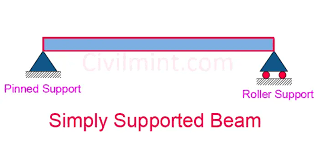
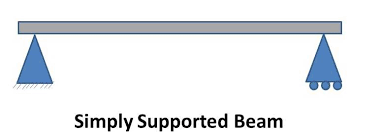
Updated ss_beam image and its path, deleted commented code,changed c_beam jpeg image to png

Changed region(s): [[0.0, 0.1515, 0.9907, 0.697], [0.1548, 0.697, 0.805, 1.0]]

diff --git a/src/osdag/design_type/flexural_member/plot_bmd_sfd.py b/src/osdag/design_type/flexural_member/plot_bmd_sfd.py
@@ -1,0 +1,188 @@
+
+from PyQt5.QtCore import Qt
+from PyQt5.QtWidgets import QApplication
+from PyQt5.QtGui import QKeySequence
+from PyQt5.QtWidgets import QDialog
+
+from PyQt5.QtWidgets import (
+    QWidget, QLabel, QPushButton, QVBoxLayout, QTableWidget, QTableWidgetItem,
+    QHBoxLayout, QFileDialog, QHeaderView, QMessageBox
+)
+import matplotlib.pyplot as plt
+
+
+class PlotInputWidget(QWidget):
+    def __init__(self, plot_type="BM"):  # "BM" or "SF"
+        super().__init__()
+
+        self.plot_type = plot_type
+        self.setWindowTitle(f"{'BMD' if plot_type == 'BM' else 'SFD'} Plotter")
+
+        self.layout = QVBoxLayout(self)
+
+        # Setup Table
+        self.table = QTableWidget(5, 2)
+        self.table.setHorizontalHeaderLabels(["Distance (m)", "BM (kNm)" if plot_type == "BM" else "SF (kN)"])
+        self.table.horizontalHeader().setSectionResizeMode(QHeaderView.Stretch)
+
+        self.layout.addWidget(QLabel(f"Enter Distance and {'Bending Moment' if plot_type == 'BM' else 'Shear Force'} values:"))
+        self.layout.addWidget(self.table)
+
+        # Buttons
+        btn_layout = QHBoxLayout()
+        self.plot_btn = QPushButton(f"Plot {'BMD' if plot_type == 'BM' else 'SFD'}")
+        # self.save_btn = QPushButton("Save as PNG")
+        self.add_row_btn = QPushButton("Add Row")
+        btn_layout.addWidget(self.add_row_btn)
+        btn_layout.addWidget(self.plot_btn)
+        # btn_layout.addWidget(self.save_btn)
+        self.layout.addLayout(btn_layout)
+
+        # Connections
+        self.add_row_btn.clicked.connect(self.add_row)
+        self.plot_btn.clicked.connect(self.plot_graph)
+        # self.save_btn.clicked.connect(self.save_plot)
+
+    def add_row(self):
+        self.table.insertRow(self.table.rowCount())
+
+    def get_data(self):
+        x_vals = []
+        y_vals = []
+
+        for row in range(self.table.rowCount()):
+            try:
+                xi = float(self.table.item(row, 0).text())
+                yi = float(self.table.item(row, 1).text())
+                x_vals.append(xi)
+                y_vals.append(yi)
+            except (ValueError, AttributeError):
+                continue
+
+        if len(x_vals) < 2:
+            QMessageBox.warning(self, "Invalid Input", "Please enter at least two valid data points.")
+            return None, None
+
+        # Sort by distance
+        return zip(*sorted(zip(x_vals, y_vals)))
+
+    def plot_graph(self):
+        x, y = self.get_data()
+        if x is None:
+            return
+
+        color = 'r' if self.plot_type == "BM" else 'b'
+        title = "Bending Moment Diagram" if self.plot_type == "BM" else "Shear Force Diagram"
+        ylabel = "BM (kNm)" if self.plot_type == "BM" else "SF (kN)"
+        # plt.rcParams['home'] = 'none'
+        fig, ax = plt.subplots(figsize=(8, 4))
+        line, = ax.plot(x, y, color=color, linewidth=2, marker='o', label=title)
+
+        # Draw vertical dashed lines from each point to X-axis
+        for xi, yi in zip(x, y):
+            ax.vlines(xi, 0, yi, colors=color, linestyles='dashed', alpha=0.6)
+
+        ax.set_title(title)
+        ax.set_xlabel("Distance (m)")
+        ax.set_ylabel(ylabel)
+        ax.grid(True)
+        ax.axhline(0, color='black', linewidth=1)
+
+        # Hover annotation
+        annot = ax.annotate("", xy=(0,0), xytext=(15,15), textcoords="offset points",
+                            bbox=dict(boxstyle="round", fc="w"),
+                            arrowprops=dict(arrowstyle="->"))
+        annot.set_visible(False)
+
+        def update_annot(ind):
+            index = ind["ind"][0]
+            x_val = x[index]
+            y_val = y[index]
+            annot.xy = (x_val, y_val)
+            annot.set_text(f"x={x_val:.2f}\ny={y_val:.2f}")
+            annot.get_bbox_patch().set_alpha(0.9)
+
+        def hover(event):
+            if event.inaxes == ax and event.xdata is not None:
+                x_mouse = event.xdata
+
+                # Find two x-values around the mouse (for interpolation)
+                for i in range(len(x) - 1):
+                    if x[i] <= x_mouse <= x[i + 1]:
+                        # Linear interpolation
+                        x1, x2 = x[i], x[i + 1]
+                        y1, y2 = y[i], y[i + 1]
+
+                        # Interpolated y value
+                        slope = (y2 - y1) / (x2 - x1)
+                        y_interp = y1 + slope * (x_mouse - x1)
+
+                        # Update annotation
+                        annot.xy = (x_mouse, y_interp)
+                        annot.set_text(f"x={x_mouse:.2f}\ny={y_interp:.2f}")
+                        annot.set_visible(True)
+                        fig.canvas.draw_idle()
+                        return
+
+                annot.set_visible(False)
+                fig.canvas.draw_idle()
+
+
+        fig.canvas.mpl_connect("motion_notify_event", hover)
+        plt.tight_layout()
+        plt.legend()
+        plt.show()
+        
+
+    def save_plot(self):
+        x, y = self.get_data()
+        if x is None:
+            return
+
+        fname, _ = QFileDialog.getSaveFileName(self, "Save Plot", "", "PNG Files (*.png)")
+        if fname:
+            color = 'r' if self.plot_type == "BM" else 'b'
+            title = "Bending Moment Diagram" if self.plot_type == "BM" else "Shear Force Diagram"
+            ylabel = "BM (kNm)" if self.plot_type == "BM" else "SF (kN)"
+
+            plt.figure(figsize=(8, 4))
+            plt.plot(x, y, color=color, linewidth=2, marker='o')
+            for xi, yi in zip(x, y):
+                plt.vlines(xi, 0, yi, colors=color, linestyles='dashed', alpha=0.7)
+            plt.axhline(0, color='black', linewidth=1)
+            plt.title(title)
+            plt.xlabel("Distance (m)")
+            plt.ylabel(ylabel)
+            plt.grid(True)
+            plt.tight_layout()
+            plt.savefig(fname)
+            plt.close()
+
+    def keyPressEvent(self, event):
+        if event.matches(QKeySequence.Paste):
+            clipboard = QApplication.clipboard()
+            text = clipboard.text()
+            rows = text.strip().split("\n")
+            current_row = self.table.currentRow()
+            current_col = self.table.currentColumn()
+
+            for r_idx, row_data in enumerate(rows):
+                columns = row_data.split("\t")
+                for c_idx, cell in enumerate(columns):
+                    target_row = current_row + r_idx
+                    target_col = current_col + c_idx
+                    # Expand if necessary
+                    if target_row >= self.table.rowCount():
+                        self.table.insertRow(self.table.rowCount())
+                    item = QTableWidgetItem(cell.strip())
+                    self.table.setItem(target_row, target_col, item)
+        else:
+            super().keyPressEvent(event)
+    def showEvent(self, event):
+    # Clear table contents every time the widget is shown
+        self.table.clearContents()
+        self.table.setRowCount(5)  # Reset to default number of rows
+        super().showEvent(event)
+
+
+

diff --git a/src/osdag/gui/ui_template.py b/src/osdag/gui/ui_template.py
@@ -5,7 +5,7 @@ import time
 import pandas as pd
 from PyQt5 import QtCore, QtGui, QtWidgets
 from PyQt5.QtGui import *
-from PyQt5.QtWidgets import *
+from PyQt5.QtWidgets import * 
 from PyQt5.QtCore import *
 from .ui_tutorial import Ui_Tutorial
 from .ui_aboutosdag import Ui_AboutOsdag
@@ -60,7 +60,10 @@ import subprocess
 from ..get_DPI_scale import scale,height,width
 from ..cad.cad3dconnection import cadconnection
 from pynput.mouse import Button, Controller
-
+from PyQt5.QtWidgets import QDialog
+from PyQt5.QtCore import QThread
+from PyQt5.QtCore import pyqtSignal, QObject, QEvent
+from PyQt5.QtCore import *
 class MyTutorials(QDialog):
     def __init__(self, parent=None):
         QDialog.__init__(self, parent)
@@ -582,6 +585,11 @@ class Window(QMainWindow):
         for option in option_list:
             lable = option[1]
             type = option[2]
+            if type == 'BUTTON':
+                b = option[3]
+                b.setObjectName(option[0])
+                in_layout2.addWidget(b, j, 2, 1, 1)
+
             if type not in [TYPE_TITLE, TYPE_IMAGE, TYPE_MODULE, TYPE_IMAGE_COMPRESSION]:
                 l = QtWidgets.QLabel(self.dockWidgetContents)
                 l.setObjectName(option[0] + "_label")
@@ -865,6 +873,7 @@ class Window(QMainWindow):
         else:
             for t in updated_list:
                 for key_name in t[0]:
+                    
                     key_changed = self.dockWidgetContents.findChild(QtWidgets.QWidget, key_name)
                     self.on_change_connect(key_changed, updated_list, data, main)
                     print(f"key_name{key_name} \n key_changed{key_changed}  \n self.on_change_connect ")
@@ -2133,7 +2142,24 @@ class Window(QMainWindow):
                     action.setEnabled(True)
                 fName = str('./ResourceFiles/images/3d.png')
                 file_extension = fName.split(".")[-1]
+
+                # if file_extension == 'png':
+                #     self.display.ExportToImage(fName)
+                #     im = Image.open('./ResourceFiles/images/3d.png')
+                #     w,h=im.size
+                #     if(w< 640 or h < 360):
+                #         print('Re-taking Screenshot')
+                #         self.resize(700,500)
+                #         self.outputDock.hide()
+                #         self.inputDock.hide()
+                #         self.textEdit.hide()
+                #         QTimer.singleShot(0, lambda:self.retakeScreenshot(fName))
+
             else:
+                for fName in ['3d.png', 'top.png',
+                              'front.png', 'side.png']:
+                    with open("./ResourceFiles/images/"+fName, 'w'):
+                        pass
                 self.display.EraseAll()
                 for chkbox in main.get_3d_components(main):
                     self.frame.findChild(QtWidgets.QCheckBox, chkbox[0]).setEnabled(False)

diff --git a/src/osdag/design_type/flexural_member/flexure.py b/src/osdag/design_type/flexural_member/flexure.py
@@ -35,6 +35,8 @@ from ...utils.common.Section_Properties_Calculator import BBAngle_Properties
 from ...utils.common import is800_2007
 from ...utils.common.component import *
 from osdag.cad.items.plate import Plate
+from PyQt5.QtWidgets import QPushButton
+from .plot_bmd_sfd import PlotInputWidget
 
 class Flexure(Member):
 
@@ -256,11 +258,11 @@ class Flexure(Member):
         # options_list.append(t3)
 
         #
-        #t4 = (KEY_SUPPORT, KEY_DISP_SUPPORT, TYPE_NOTE,KEY_DISP_SUPPORT1, True, 'No Validator')
-        #options_list.append(t4)
+        t4 = (KEY_SUPPORT, KEY_DISP_SUPPORT, TYPE_NOTE,KEY_DISP_SUPPORT1, True, 'No Validator')
+        options_list.append(t4)
 
-        #t12 = (KEY_IMAGE, None, TYPE_IMAGE, Simply_Supported_img, True, 'No Validator')
-        #options_list.append(t12)
+        t12 = (KEY_IMAGE, None, TYPE_IMAGE, Simply_Supported_img, True, 'No Validator')
+        options_list.append(t12)
 
 
         # t3 = (KEY_BUCKLING_METHOD, KEY_WEB_BUCKLING, TYPE_COMBOBOX, KEY_WEB_BUCKLING_option, False, 'No Validator')
@@ -286,10 +288,20 @@ class Flexure(Member):
 
         t8 = (KEY_MOMENT, KEY_DISP_MOMENT, TYPE_TEXTBOX, None, True, 'No Validator')
         options_list.append(t8)
+        bm_button = QPushButton("Plot BMD")
+        self.bmd_widget = PlotInputWidget("BM")
+        bm_button.clicked.connect(self.bmd_widget.show)
+        t8b = ("bm_plot_button", "", 'BUTTON', bm_button, True, "")
+        options_list.append(t8b)
 
         t8 = (KEY_SHEAR, KEY_DISP_SHEAR, TYPE_TEXTBOX, None, True, 'No Validator')
         options_list.append(t8)
 
+        sf_button = QPushButton("Plot SFD")
+        self.sfd_widget = PlotInputWidget("SFD")
+        sf_button.clicked.connect(self.sfd_widget.show)
+        t9b = ("sf_plot_button", "", 'BUTTON', sf_button, True, "")
+        options_list.append(t9b)
 
 
         return options_list
@@ -3089,4 +3101,3 @@ class Flexure(Member):
         fname_no_ext = popup_summary['filename']
         CreateLatex.save_latex(CreateLatex(), self.report_input, self.report_check, popup_summary, fname_no_ext,
                               rel_path, Disp_2d_image, Disp_3D_image, module=self.module) #
-

diff --git a/src/osdag/design_type/flexural_member/flexure_cantilever.py b/src/osdag/design_type/flexural_member/flexure_cantilever.py
@@ -34,6 +34,8 @@ from ..tension_member import *
 from ...utils.common.Section_Properties_Calculator import BBAngle_Properties
 from ...utils.common import is800_2007
 from ...utils.common.component import *
+from PyQt5.QtWidgets import QPushButton
+from .plot_bmd_sfd import PlotInputWidget
 
 # TODO DEBUG
 class Flexure_Cantilever(Member):
@@ -256,11 +258,11 @@ class Flexure_Cantilever(Member):
         # options_list.append(t3)
         #
         #
-        #t4 = (KEY_SUPPORT, KEY_DISP_SUPPORT, TYPE_NOTE,KEY_DISP_SUPPORT2, True, 'No Validator')
-        #options_list.append(t4)
+        t4 = (KEY_SUPPORT, KEY_DISP_SUPPORT, TYPE_NOTE,KEY_DISP_SUPPORT2, True, 'No Validator')
+        options_list.append(t4)
 
-        #t12 = (KEY_IMAGE, None, TYPE_IMAGE, Cantilever_img, True, 'No Validator')
-        #options_list.append(t12)
+        t12 = (KEY_IMAGE, None, TYPE_IMAGE, Cantilever_img, True, 'No Validator')
+        options_list.append(t12)
         #
         # t10 = (KEY_TORSIONAL_RES, DISP_TORSIONAL_RES, TYPE_COMBOBOX, Torsion_Restraint_list, True, 'No Validator')
         # options_list.append(t10)
@@ -282,9 +284,21 @@ class Flexure_Cantilever(Member):
 
         t8 = (KEY_MOMENT, KEY_DISP_MOMENT, TYPE_TEXTBOX, None, True, 'No Validator')
         options_list.append(t8)
+        bm_button = QPushButton("Plot BMD")
+        self.bmd_widget = PlotInputWidget("BM")
+        bm_button.clicked.connect(self.bmd_widget.show)
+        t8b = ("bm_plot_button", "", 'BUTTON', bm_button, True, "")
+        options_list.append(t8b)
 
         t8 = (KEY_SHEAR, KEY_DISP_SHEAR, TYPE_TEXTBOX, None, True, 'No Validator')
         options_list.append(t8)
+
+
+        sf_button = QPushButton("Plot SFD")
+        self.sfd_widget = PlotInputWidget("SFD")
+        sf_button.clicked.connect(self.sfd_widget.show)
+        t9b = ("sf_plot_button", "", 'BUTTON', sf_button, True, "")
+        options_list.append(t9b)
 
 
 

diff --git a/src/osdag/gui/ui_OsdagMainPage.py b/src/osdag/gui/ui_OsdagMainPage.py
@@ -151,7 +151,7 @@ class Ui_MainWindow(QMainWindow):
         self.comboBox_help.setCurrentIndex(0)
         self.myStackedWidget.setCurrentIndex(0)
         QtCore.QMetaObject.connectSlotsByName(MainWindow)
-
+        
     def retranslateUi(self, MainWindow):
         _translate = QtCore.QCoreApplication.translate
         MainWindow.setWindowTitle(_translate("MainWindow", "Osdag"))

diff --git a/src/osdag/design_type/flexural_member/flexure_othersupp.py b/src/osdag/design_type/flexural_member/flexure_othersupp.py
@@ -293,6 +293,10 @@ class Flexure_Misc(Member):
         t8 = (KEY_SHEAR, KEY_DISP_SHEAR, TYPE_TEXTBOX, None, True, 'No Validator')
         options_list.append(t8)
 
+        t_support = (KEY_SUPPORT, "Support Type", TYPE_COMBOBOX, ["Simply Supported", "Cantilever"], True, "")
+        options_list.append(t_support)
+
+
 
 
         return options_list
